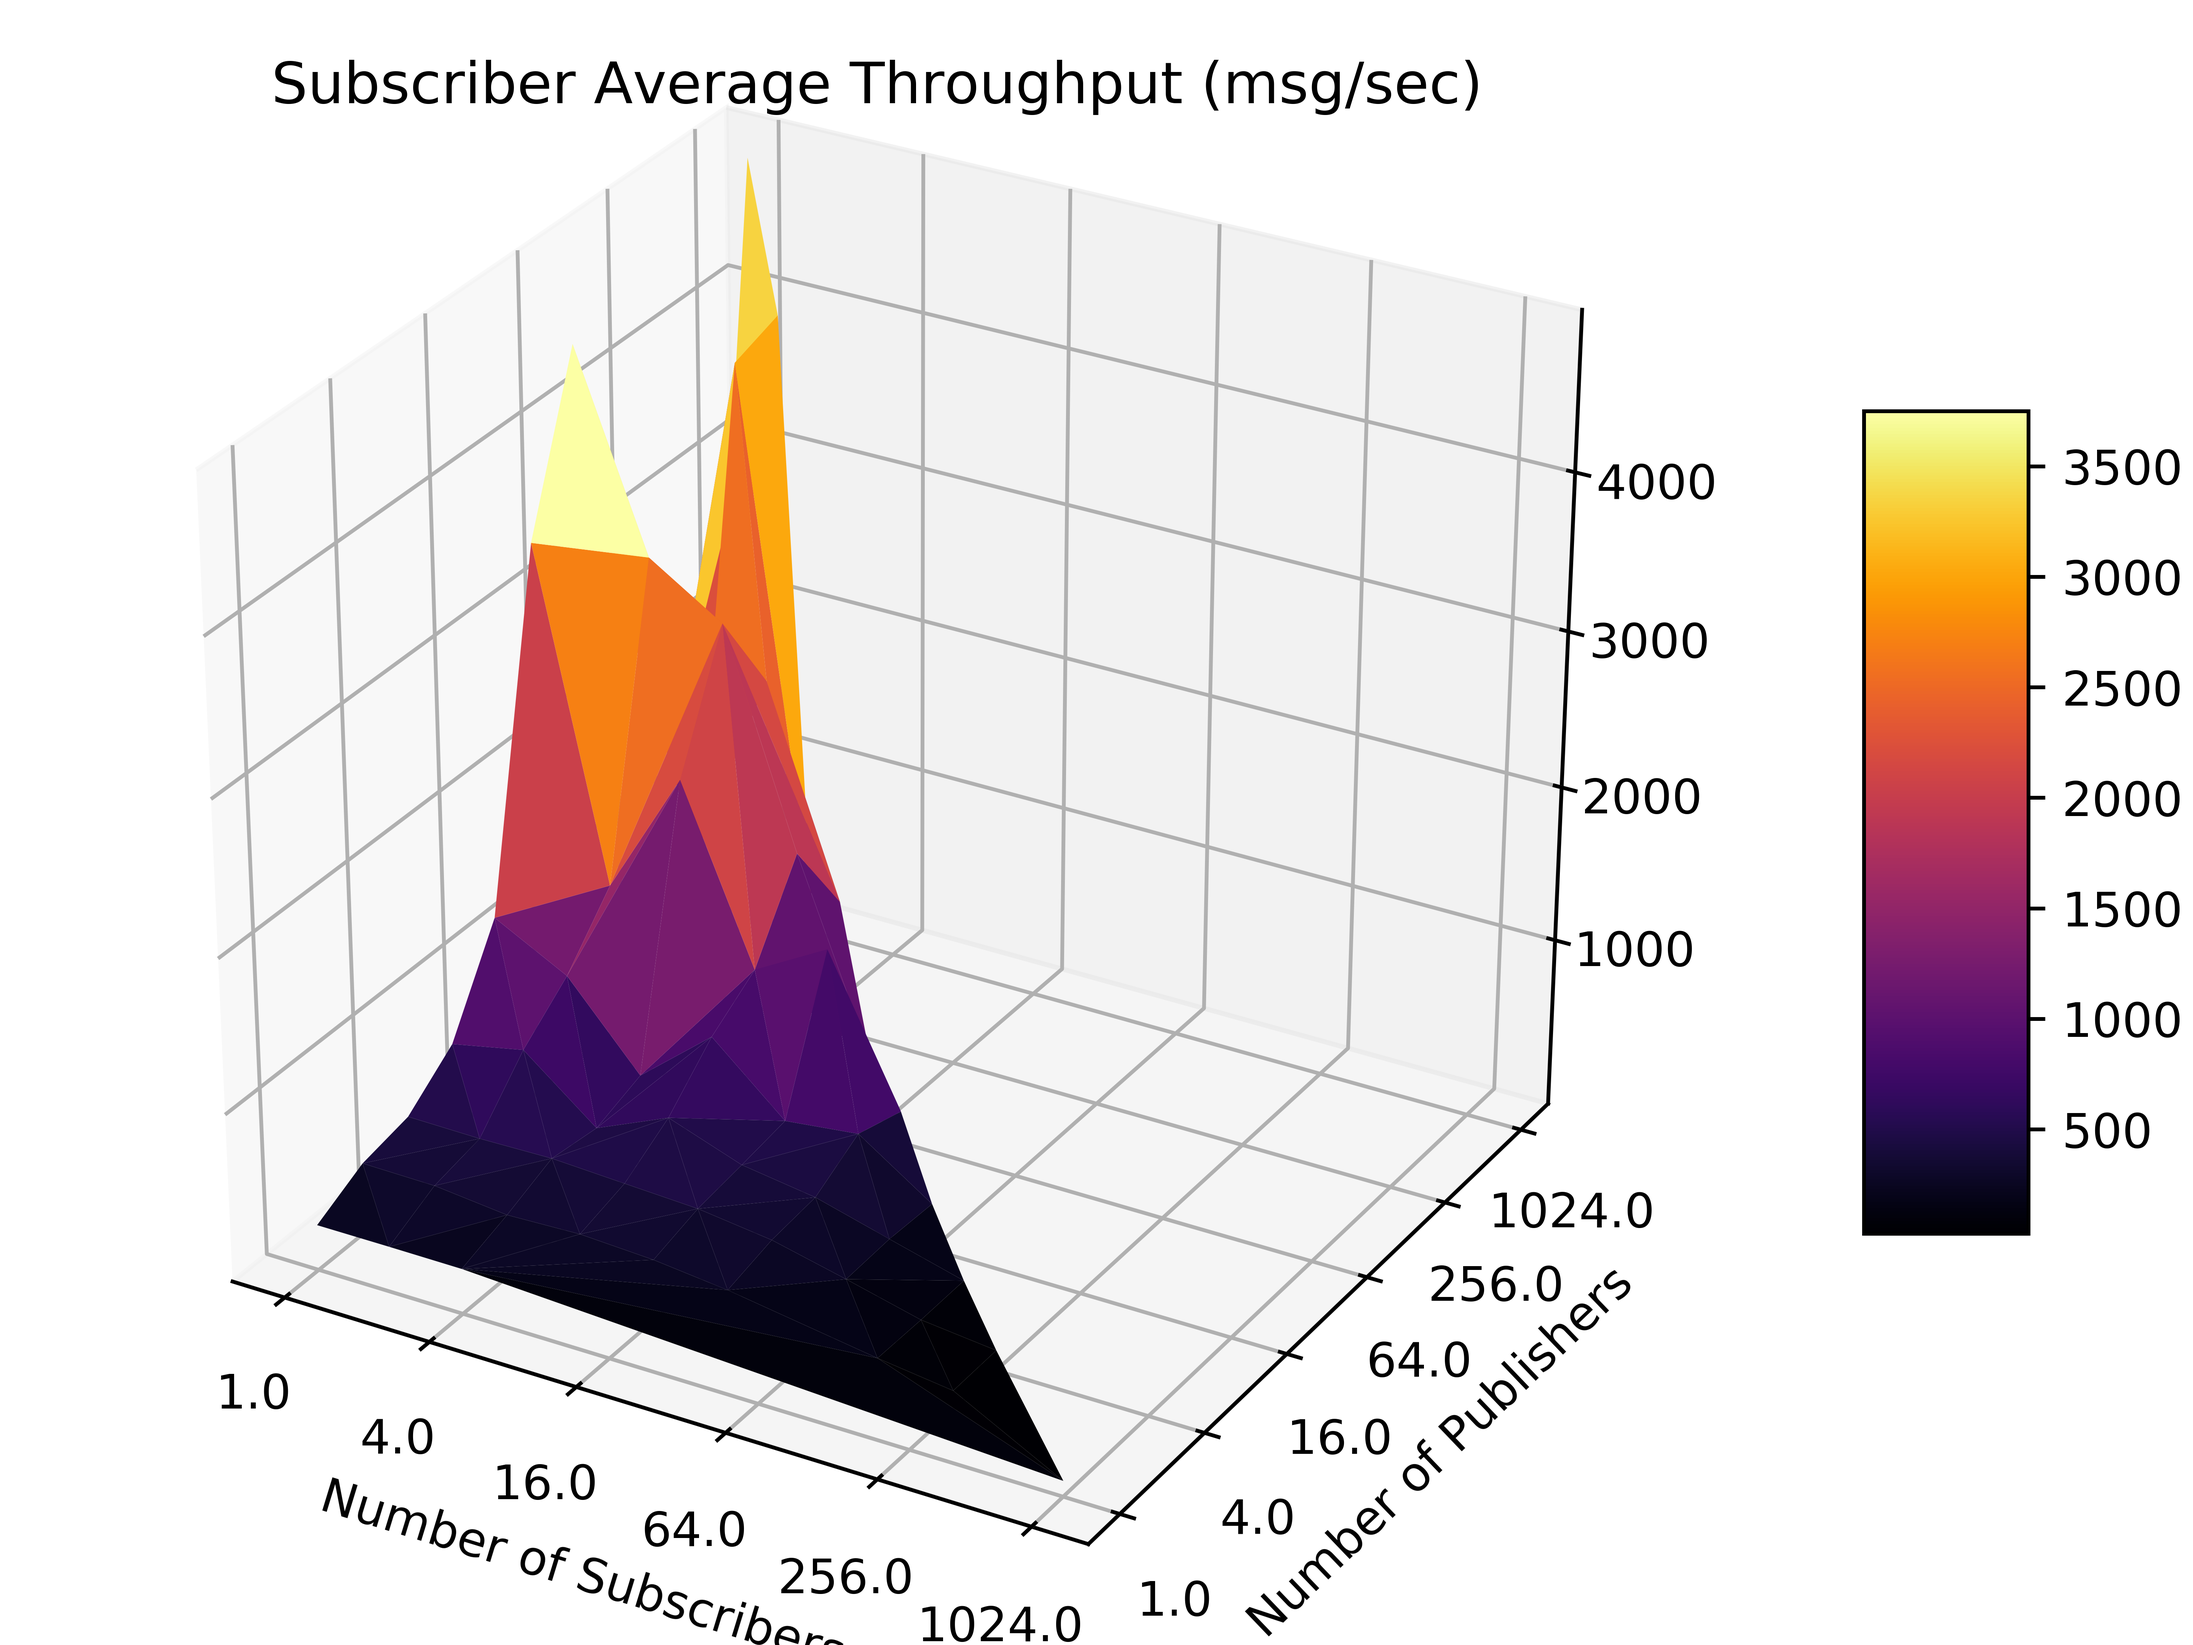
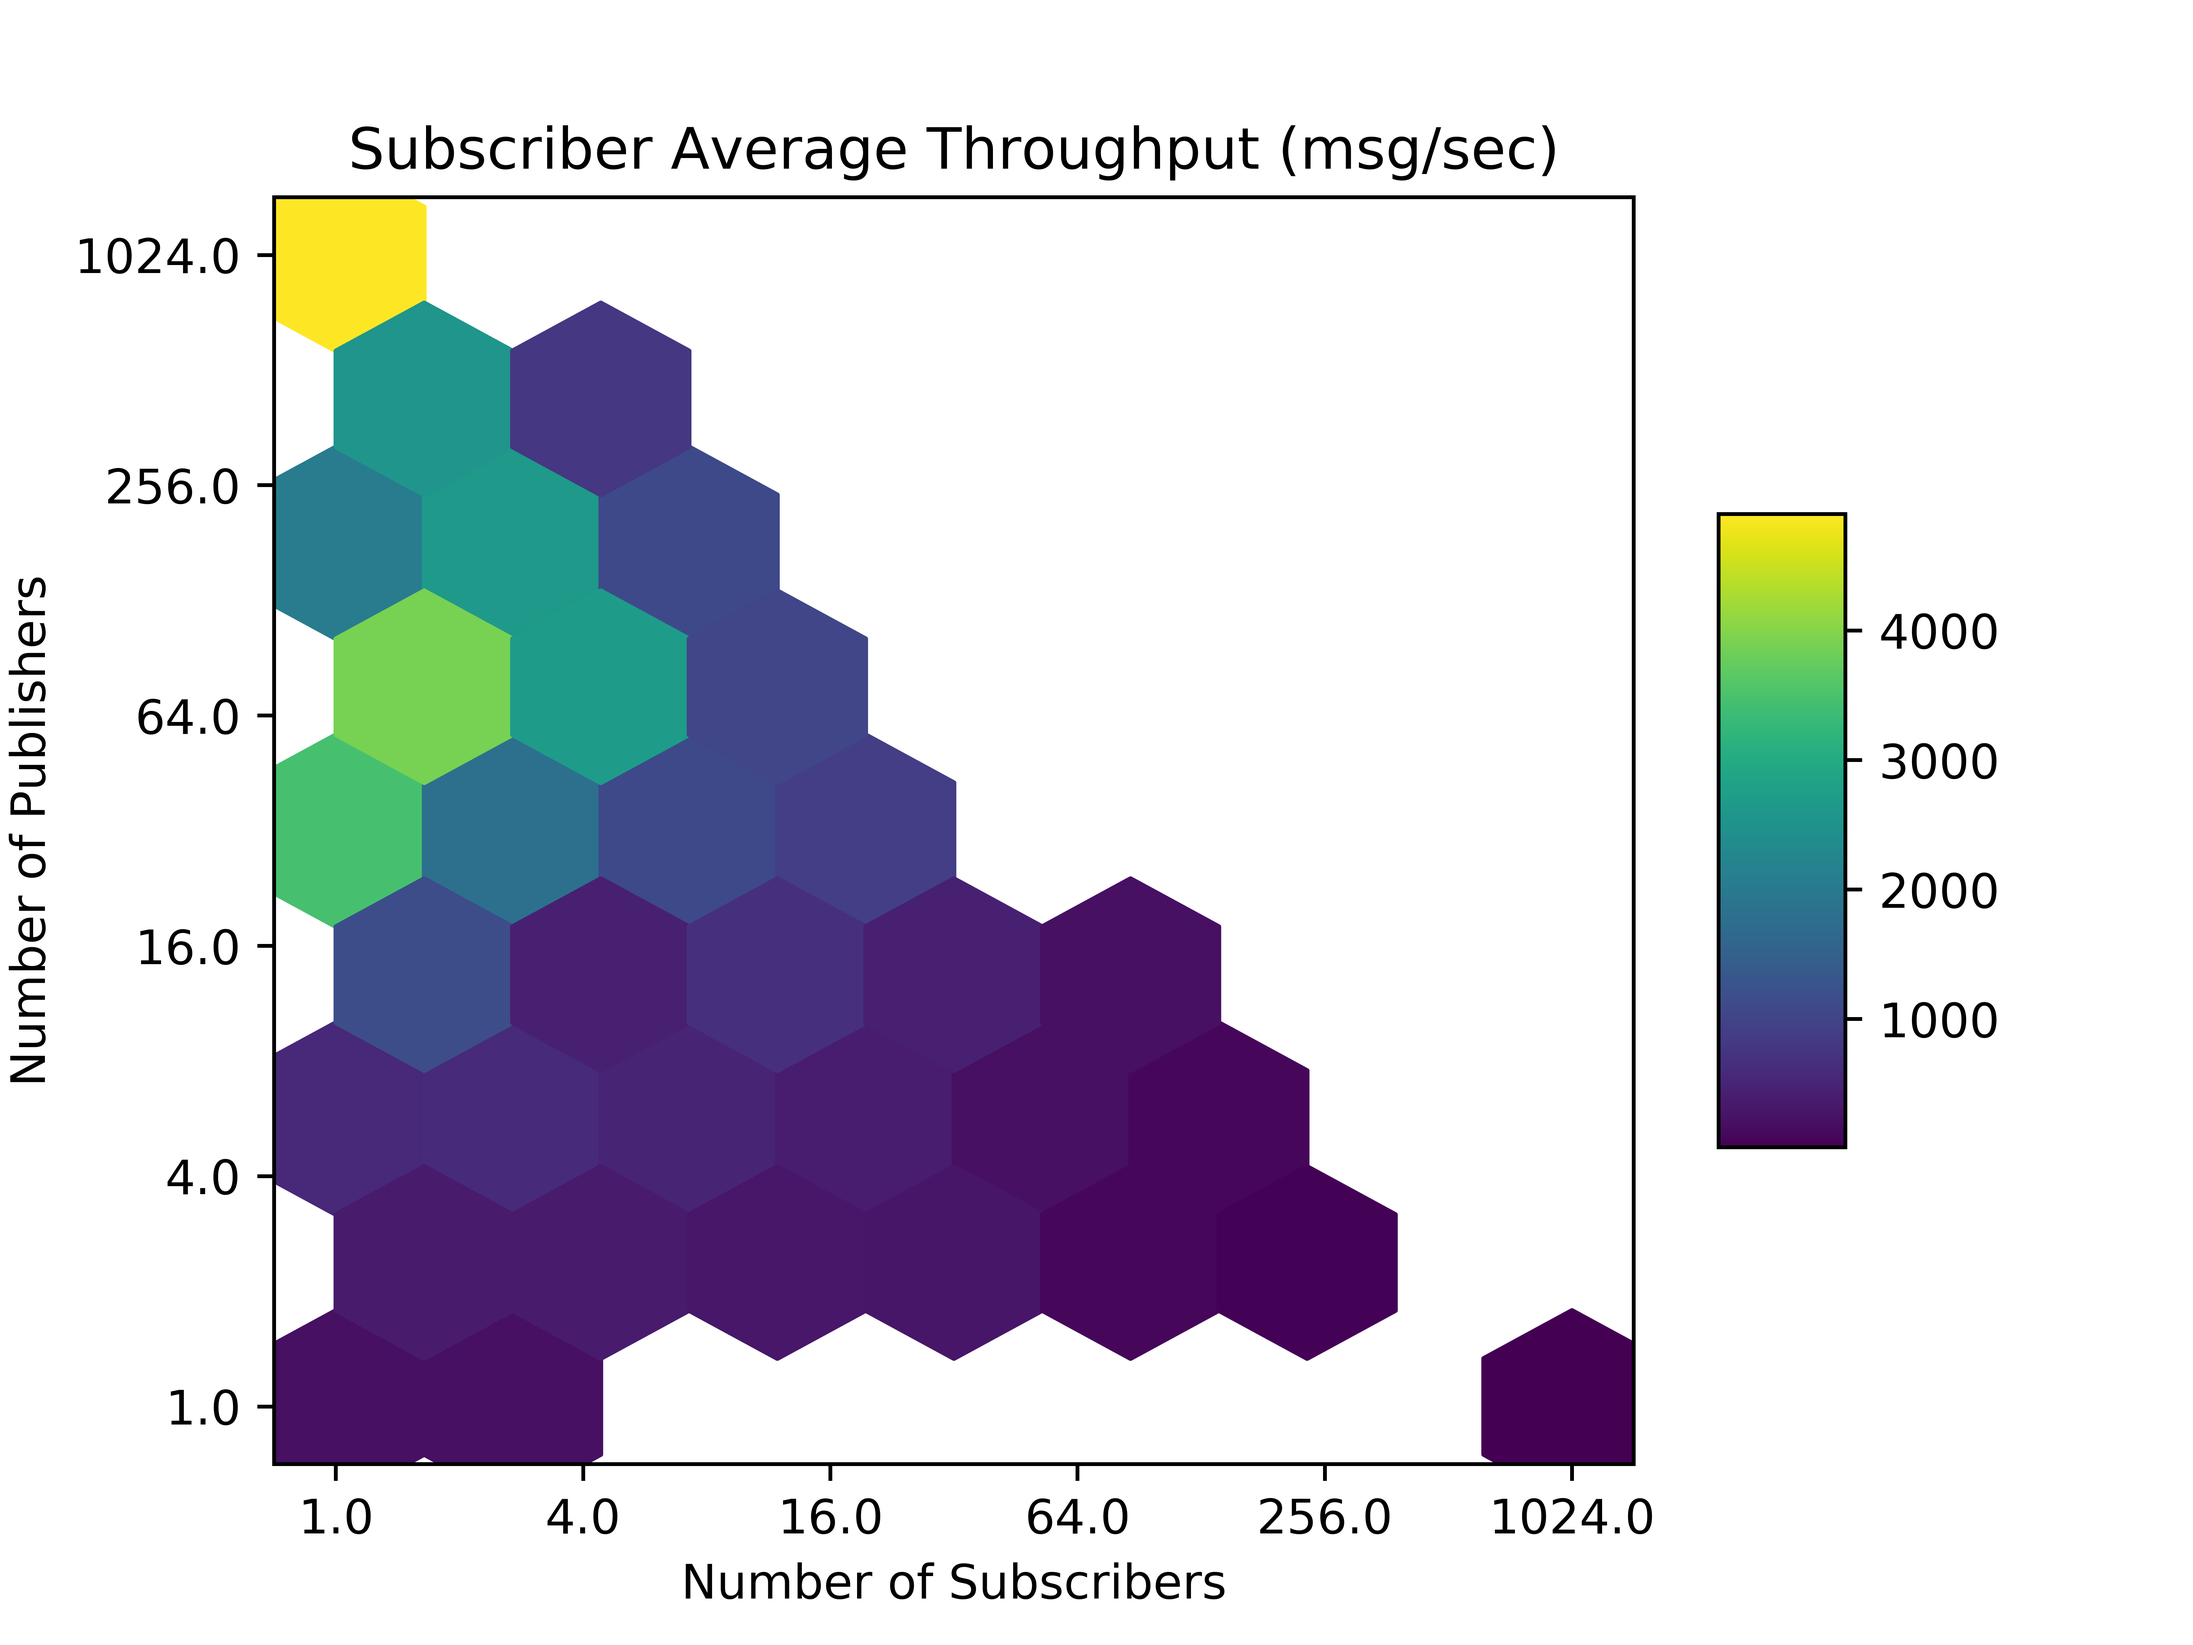
Switch 3d (well really 2.5d) to be a 2d graph
This commit switches the 3d graphs to be a much clearer to read 2d
hexbin graph. Doing this makes it much easier to see our data is
useless and doesn't show us anything except where we're bandwidth limited
either on the client or on firehose.openstack.org. We'll need to
reevaluate our benchmarking methodology to actually test the throughput
limits on the broker. (which was the intent of the benchmarking)

diff --git a/generate_3d_graph.py b/generate_3d_graph.py
@@ -58,19 +58,21 @@ bench_prune = bench_dat.groupby(
 out_bench = bench_prune.aggregate(np.mean)
 
 fig = plt.figure()
-ax = Axes3D(fig)
 out_bench.reset_index(inplace=True)
-print bench_dat
 
 
 def log_tick_formatter(val, pos=None):
     return str(pow(2, val))
 
-surf = ax.plot_trisurf(np.log2(bench_dat['Subscriber Count']),
-                       np.log2(bench_dat['Publisher Count']),
-                       bench_dat['Subscriber Avg. Throughput'],
-                       cmap=cm.inferno,
-                       linewidth=0.2)
+# surf = ax.plot_trisurf(np.log2(bench_dat['Subscriber Count']),
+#                        np.log2(bench_dat['Publisher Count']),
+#                        bench_dat['Subscriber Avg. Throughput'],
+#                        cmap=cm.inferno,
+#                        linewidth=0.2)
+surf = plt.hexbin(np.log2(bench_dat['Subscriber Count']),
+                  np.log2(bench_dat['Publisher Count']),
+                  C=bench_dat['Subscriber Avg. Throughput'],
+                  gridsize=7)
 
 fig.colorbar(surf, shrink=0.5, aspect=5)
 
@@ -78,24 +80,30 @@ plt.xlabel('Number of Subscribers')
 plt.ylabel('Number of Publishers')
 plt.title('Subscriber Average Throughput (msg/sec)')
 formatter = mticker.FuncFormatter(log_tick_formatter)
-ax.yaxis.set_major_formatter(formatter)
-ax.xaxis.set_major_formatter(formatter)
-plt.savefig('sub_throughput.png', dpi=900)
+axes = plt.gca()
+axes.yaxis.set_major_formatter(formatter)
+axes.xaxis.set_major_formatter(formatter)
+fig.savefig('sub_throughput.png', dpi=900)
 
 fig = plt.figure()
-ax = Axes3D(fig)
-surf = ax.plot_trisurf(np.log2(bench_pub_dat['Publisher Count']),
-                       np.log2(bench_pub_dat['Subscriber Count']),
-                       bench_pub_dat['Publisher Avg. Throughput'],
-                       cmap=cm.inferno,
-                       linewidth=0.2)
+# surf = ax.plot_trisurf(np.log2(bench_pub_dat['Publisher Count']),
+#                        np.log2(bench_pub_dat['Subscriber Count']),
+#                        bench_pub_dat['Publisher Avg. Throughput'],
+#                        cmap=cm.inferno,
+#                        linewidth=0.2)
+surf = plt.hexbin(np.log2(bench_pub_dat['Publisher Count']),
+                  np.log2(bench_pub_dat['Subscriber Count']),
+                  C=bench_pub_dat['Publisher Avg. Throughput'],
+                  gridsize=7)
+
 
 fig.colorbar(surf, shrink=0.5, aspect=5)
 formatter = mticker.FuncFormatter(log_tick_formatter)
-ax.yaxis.set_major_formatter(formatter)
-ax.xaxis.set_major_formatter(formatter)
+axes = plt.gca()
+axes.yaxis.set_major_formatter(formatter)
+axes.xaxis.set_major_formatter(formatter)
 
 plt.ylabel('Number of Subscribers')
 plt.xlabel('Number of Publishers')
 plt.title('Publisher Average Throughput (msg/sec)')
-plt.savefig('pub_throughput.png', dpi=900)
+fig.savefig('pub_throughput.png', dpi=900)
